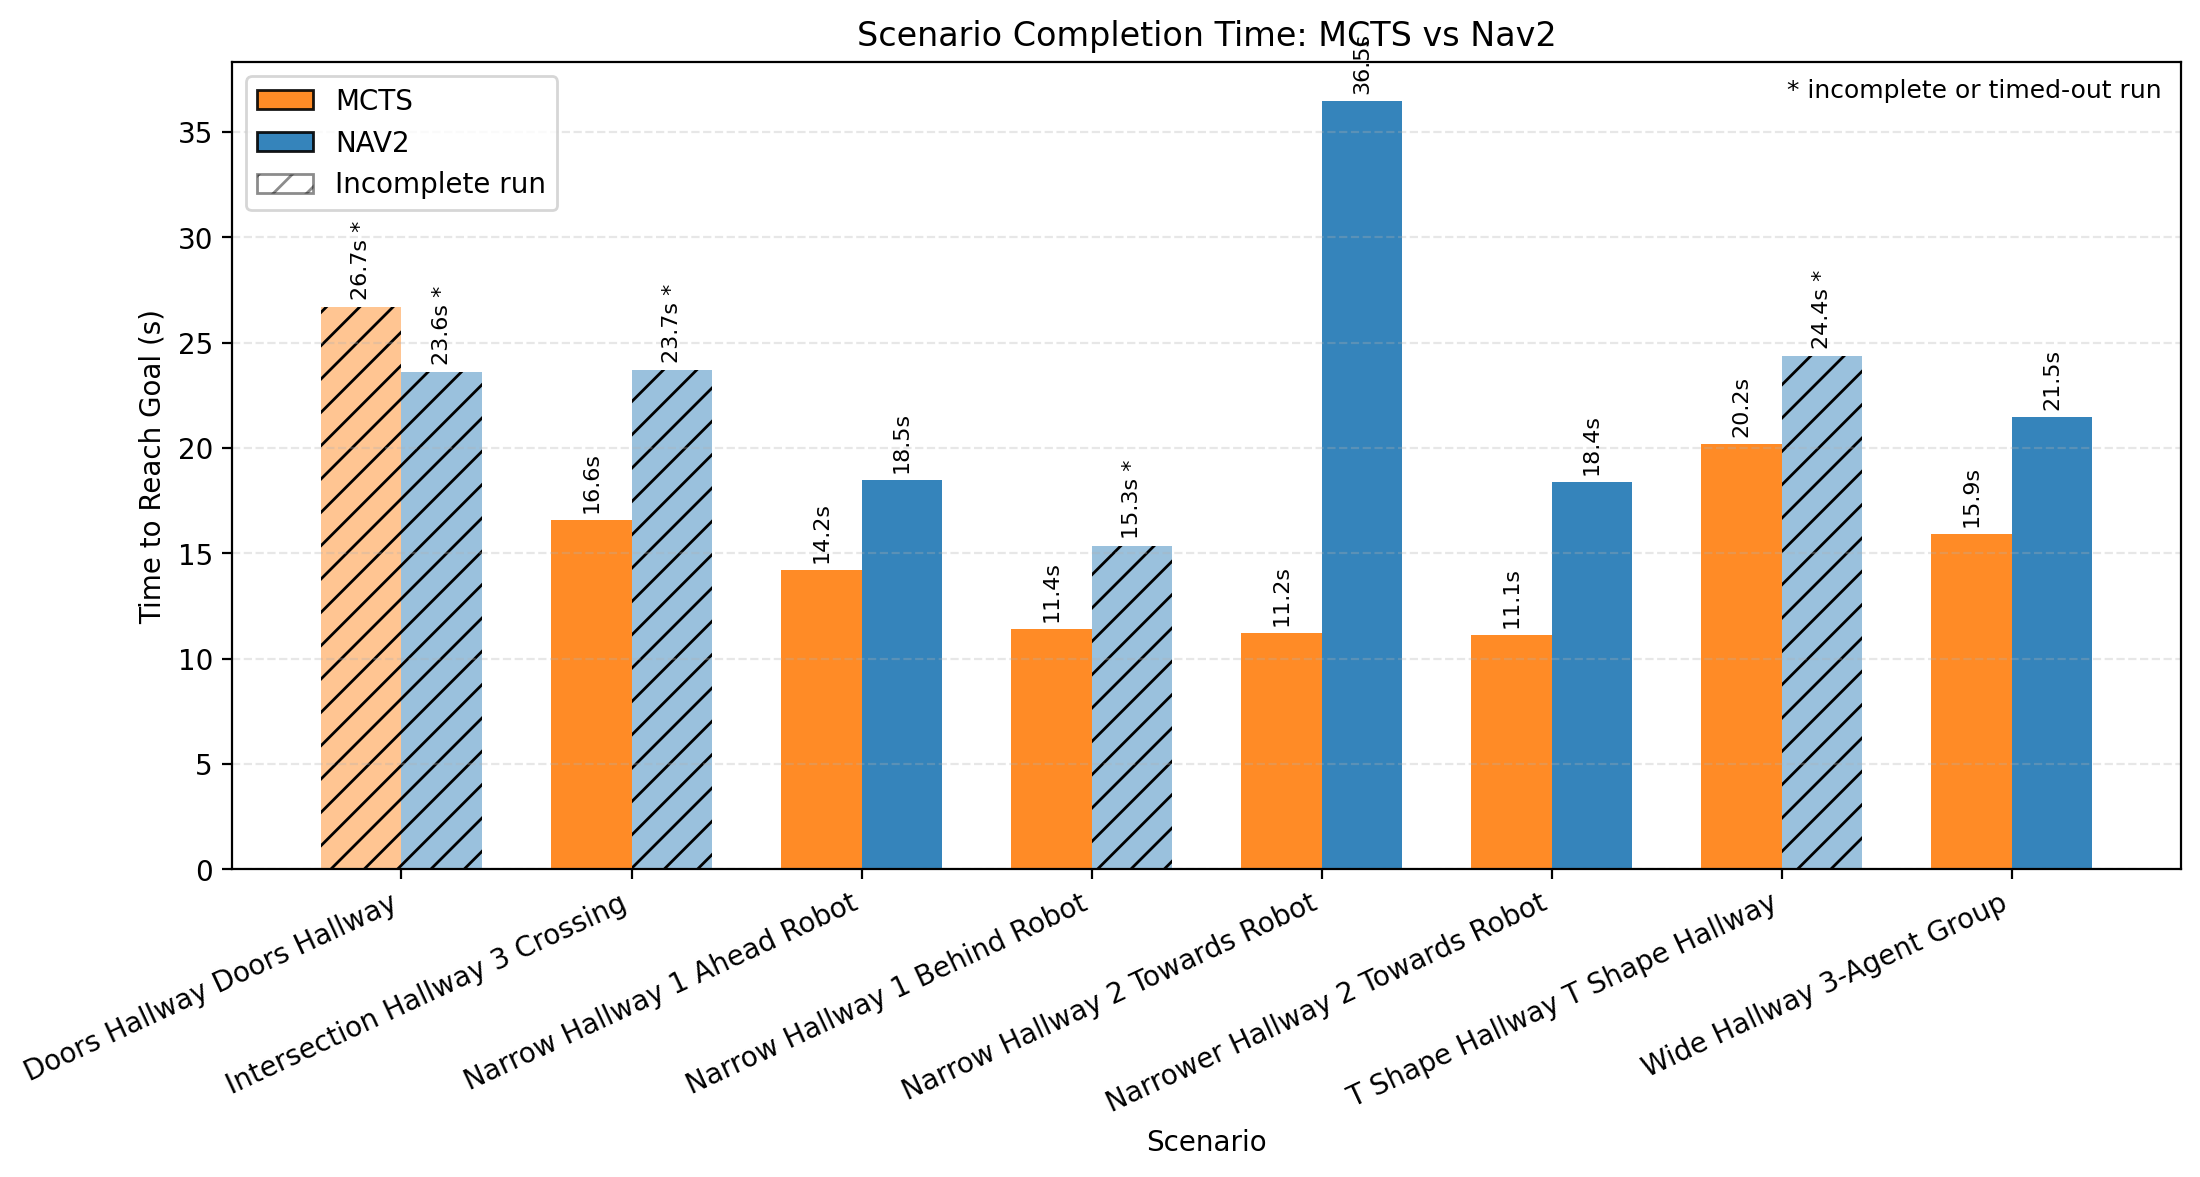
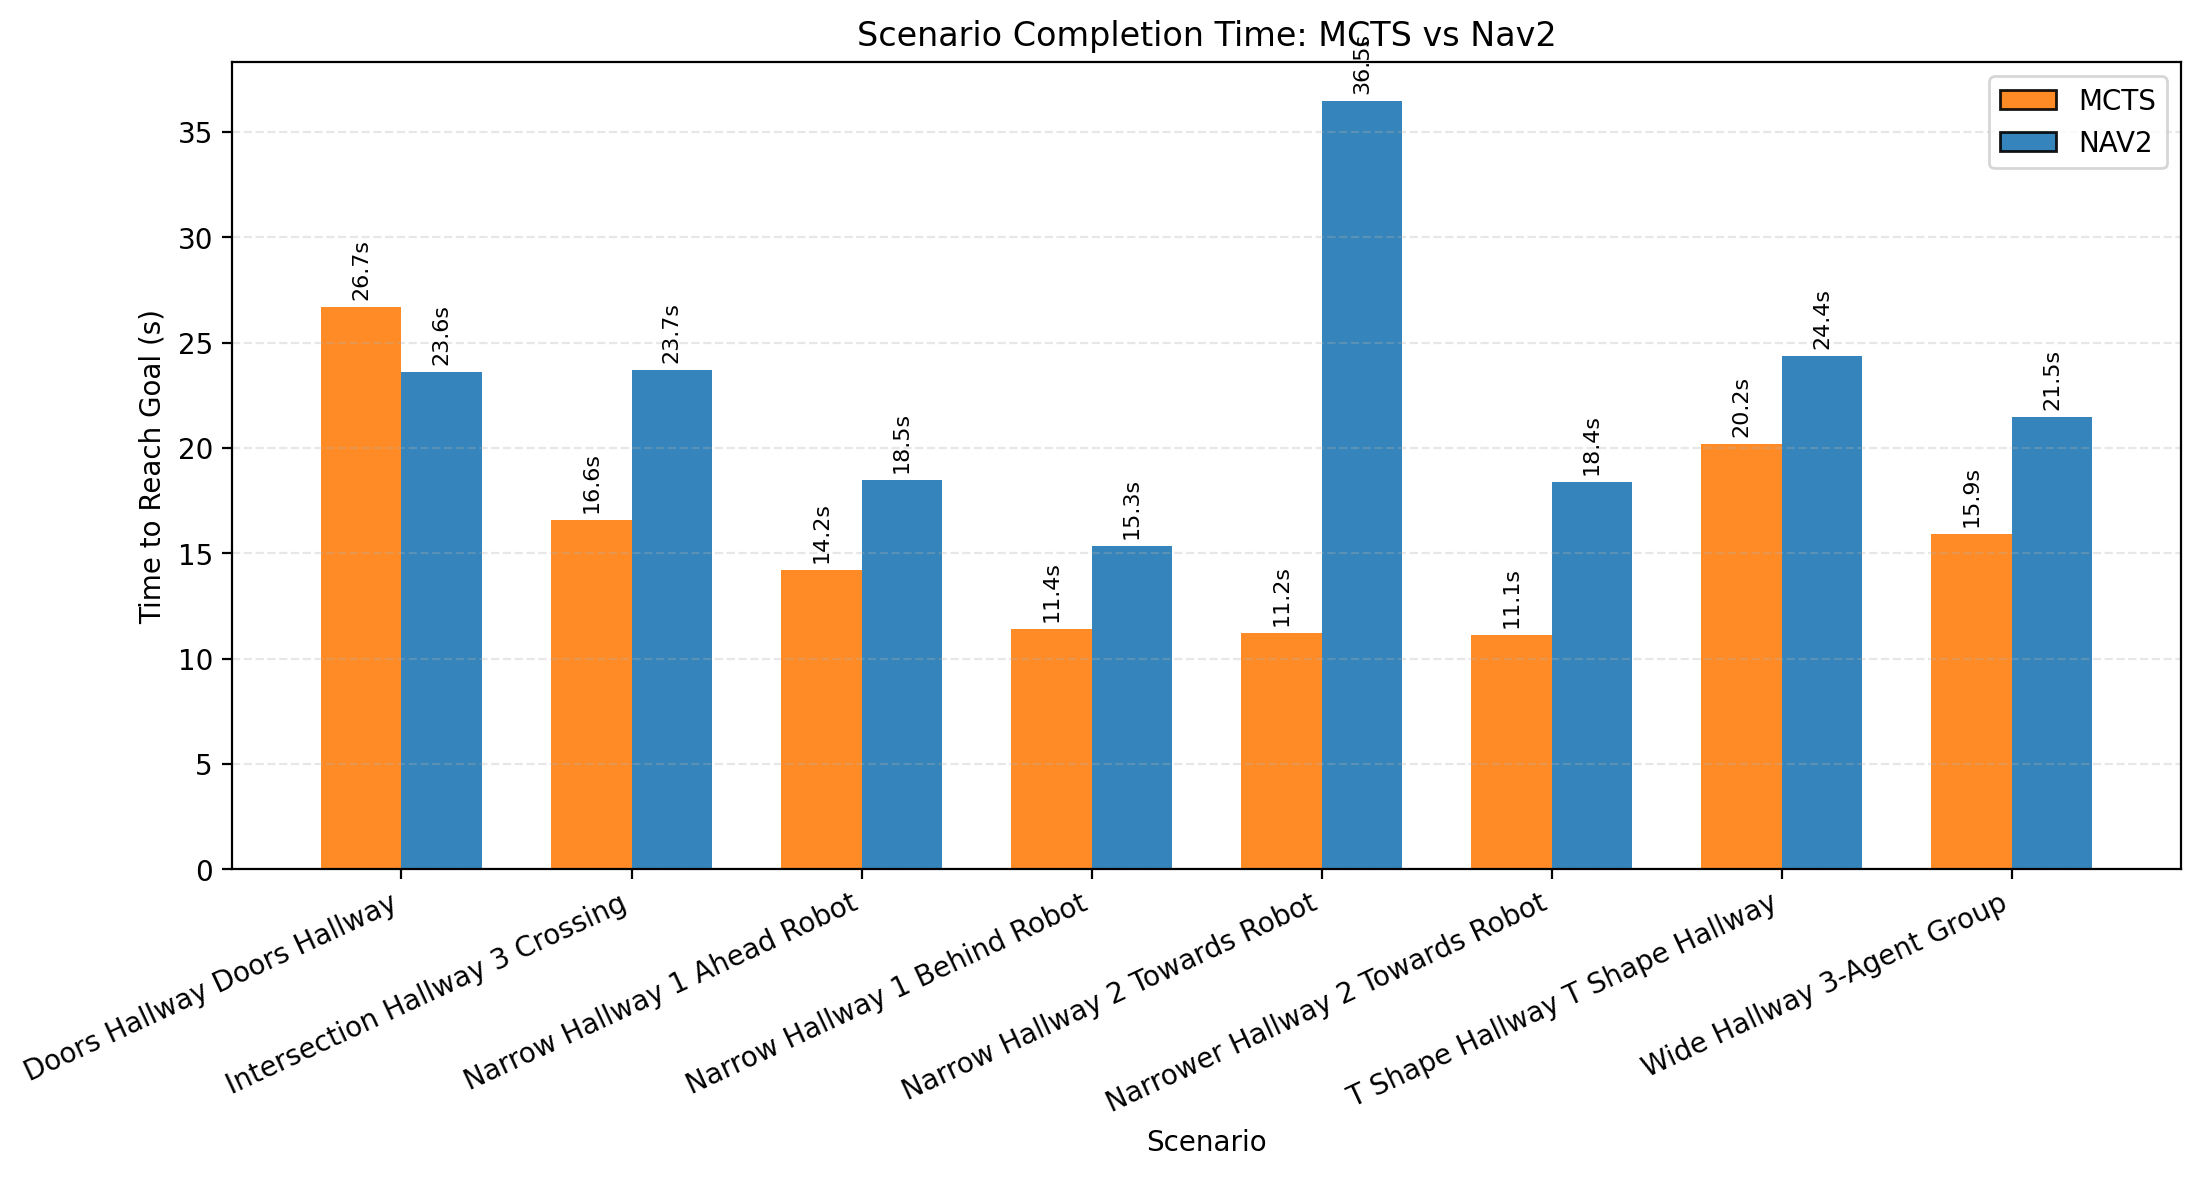
Remove "completed" because is is wrong

diff --git a/src/social_simulator/scripts/plot_completion_times.py b/src/social_simulator/scripts/plot_completion_times.py
@@ -85,12 +85,6 @@ def pretty_scenario_name(scenario: str) -> str:
     return label.title()
 
 
-def parse_completed(value: str | None) -> bool:
-    if value is None:
-        return True
-    return normalize_token(value) in {"true", "1", "yes"}
-
-
 def load_completion_times(results_file: Path) -> list[dict[str, object]]:
     with results_file.open(newline="", encoding="utf-8") as csv_file:
         reader = csv.DictReader(csv_file)
@@ -117,7 +111,6 @@ def load_completion_times(results_file: Path) -> list[dict[str, object]]:
             grouped_rows[(scenario, method)].append(
                 {
                     "time_to_reach_goal": time_to_reach_goal,
-                    "completed": parse_completed(row.get("completed")),
                 }
             )
 
@@ -132,7 +125,6 @@ def load_completion_times(results_file: Path) -> list[dict[str, object]]:
                 "scenario": scenario,
                 "method": method,
                 "time_to_reach_goal": sum(times) / len(times),
-                "completed": all(bool(row["completed"]) for row in rows),
                 "run_count": len(rows),
             }
         )
@@ -146,7 +138,6 @@ def plot_completion_times(data: list[dict[str, object]], output_path: Path, show
     colors = {"nav2": "#1f77b4", "mcts": "#ff7f0e"}
 
     fig, ax = plt.subplots(figsize=(max(10, len(scenarios) * 1.4), 6))
-    incomplete_labeled = False
 
     row_lookup = {
         (str(row["scenario"]), str(row["method"])): row
@@ -155,16 +146,13 @@ def plot_completion_times(data: list[dict[str, object]], output_path: Path, show
 
     for offset, method in [(-width / 2, "mcts"), (width / 2, "nav2")]:
         heights: list[float] = []
-        completed: list[bool] = []
         x_positions = [index + offset for index in range(len(scenarios))]
         for scenario in scenarios:
             row = row_lookup.get((scenario, method))
             if row is None:
                 heights.append(math.nan)
-                completed.append(False)
                 continue
             heights.append(float(row["time_to_reach_goal"]))
-            completed.append(bool(row["completed"]))
 
         bars = ax.bar(
             x_positions,
@@ -175,23 +163,14 @@ def plot_completion_times(data: list[dict[str, object]], output_path: Path, show
             alpha=0.9,
         )
 
-        for bar, is_completed in zip(bars, completed):
+        for bar in bars:
             if not math.isfinite(bar.get_height()):
                 bar.set_visible(False)
-                continue
-            if not is_completed:
-                bar.set_hatch("//")
-                bar.set_alpha(0.45)
-                if not incomplete_labeled:
-                    bar.set_label("Incomplete run")
-                    incomplete_labeled = True
 
     for row in data:
         method_offset = -width / 2 if row["method"] == "mcts" else width / 2
         xpos = scenarios.index(str(row["scenario"])) + method_offset
         label = f"{float(row['time_to_reach_goal']):.1f}s"
-        if not bool(row["completed"]):
-            label += " *"
         ax.text(
             xpos,
             float(row["time_to_reach_goal"]) + 0.35,
@@ -212,28 +191,7 @@ def plot_completion_times(data: list[dict[str, object]], output_path: Path, show
         Patch(facecolor=colors["mcts"], edgecolor="black", alpha=0.9, label="MCTS"),
         Patch(facecolor=colors["nav2"], edgecolor="black", alpha=0.9, label="NAV2"),
     ]
-    if not all(bool(row["completed"]) for row in data):
-        legend_handles.append(
-            Patch(
-                facecolor="white",
-                edgecolor="black",
-                hatch="//",
-                alpha=0.45,
-                label="Incomplete run",
-            )
-        )
     ax.legend(handles=legend_handles)
-
-    if not all(bool(row["completed"]) for row in data):
-        ax.text(
-            0.99,
-            0.98,
-            "* incomplete or timed-out run",
-            transform=ax.transAxes,
-            ha="right",
-            va="top",
-            fontsize=9,
-        )
 
     fig.tight_layout()
     output_path.parent.mkdir(parents=True, exist_ok=True)
